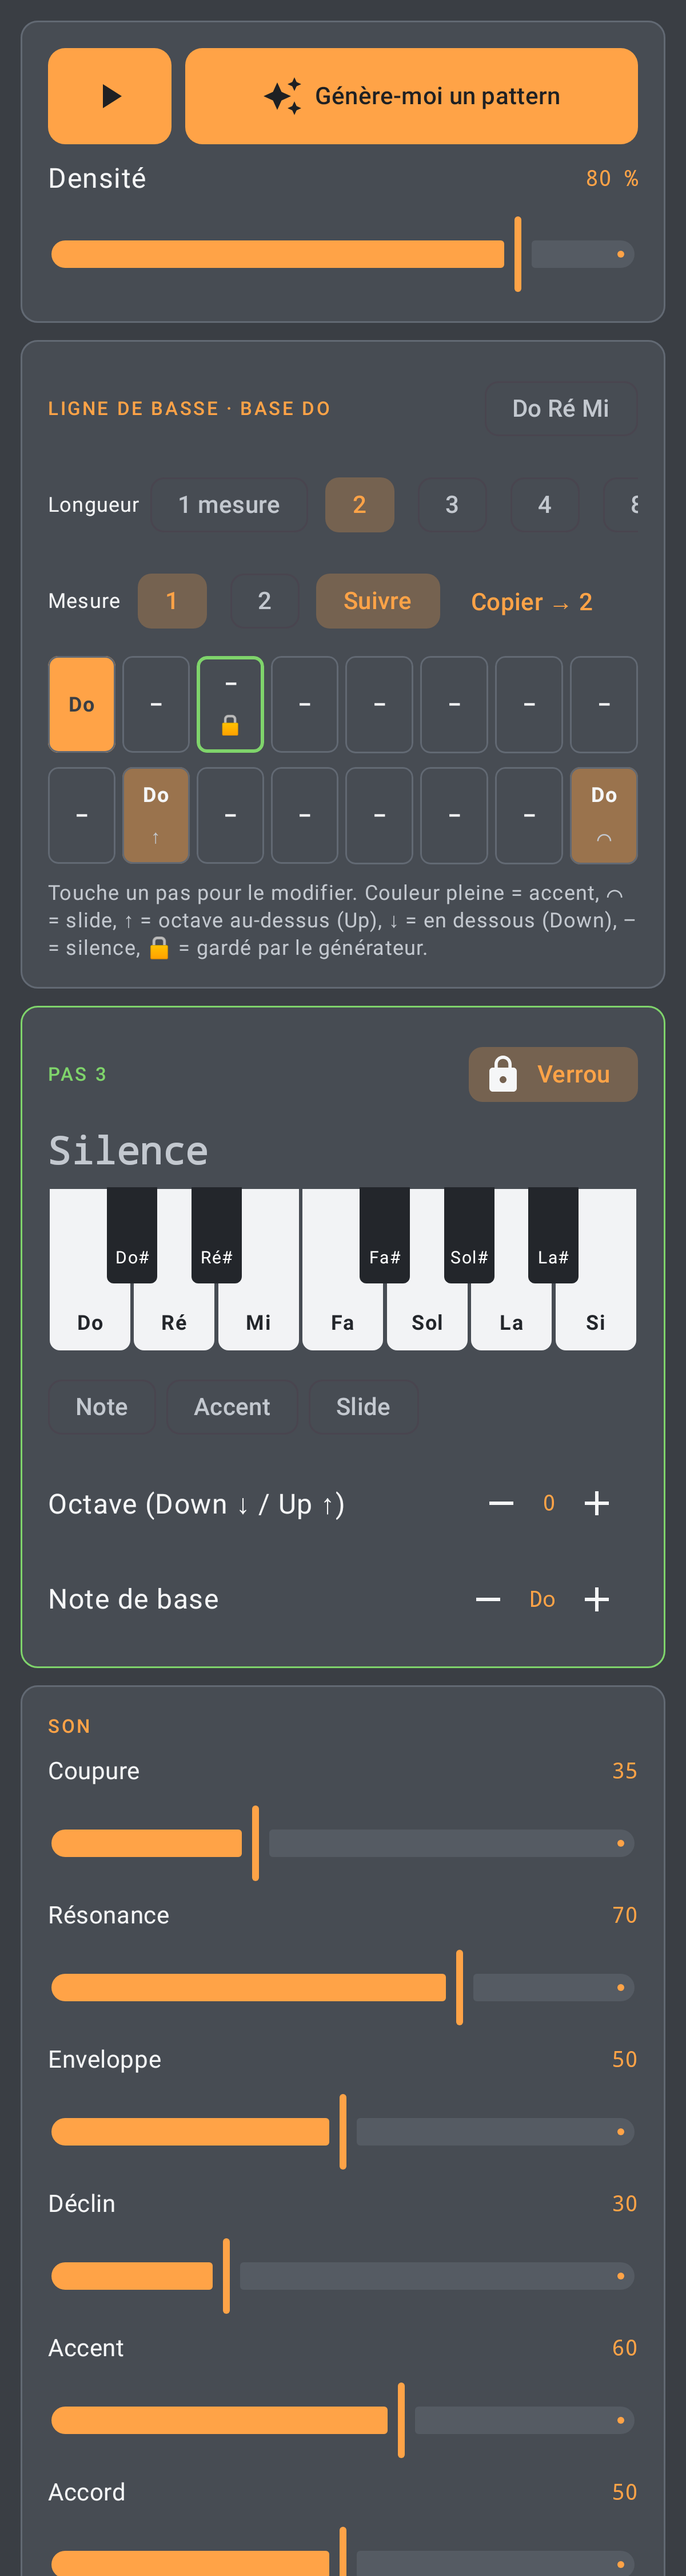
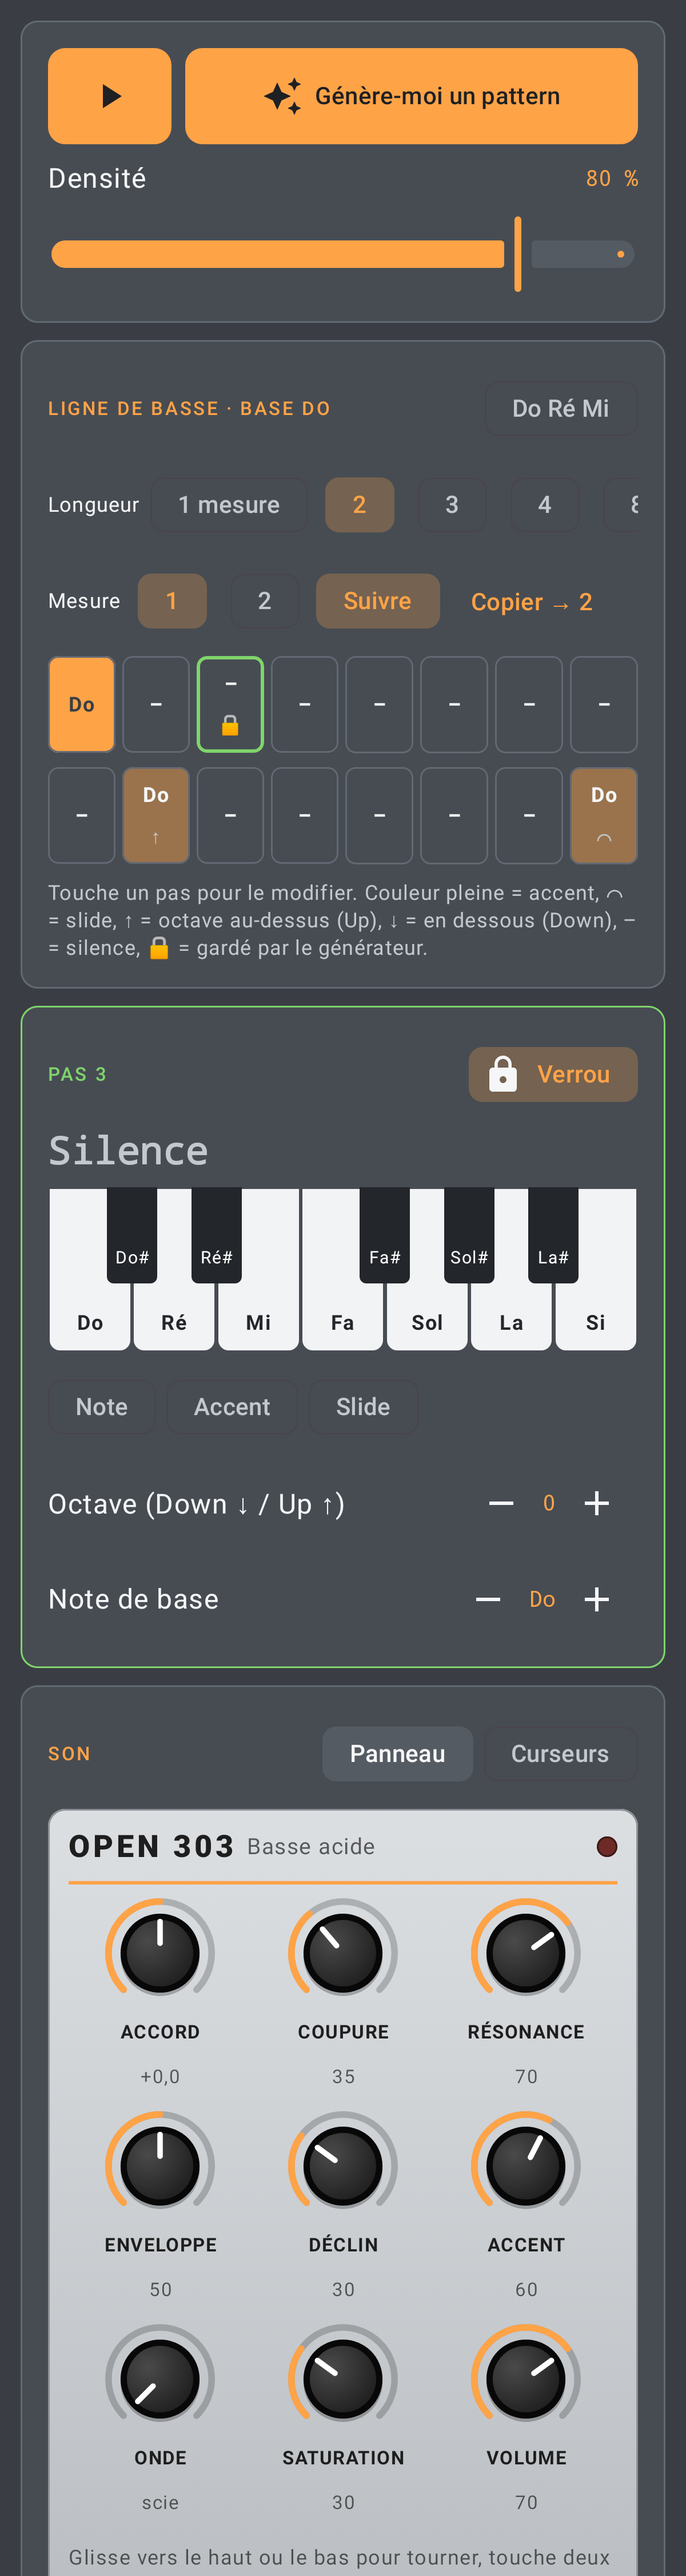
Acid: TB-303 style knob panel for the sound (sliders still available)
Claude-Session: https://claude.ai/code/session_01NqonxZBBysqqWBbnsC2VTP

Changed region(s): [[0.0617, 0.6533, 0.9558, 1.0]]

diff --git a/app/src/main/java/com/pocketstudio/app/acid/AcidScreen.kt b/app/src/main/java/com/pocketstudio/app/acid/AcidScreen.kt
@@ -54,7 +54,12 @@ import androidx.compose.ui.platform.testTag
 import androidx.compose.ui.text.font.FontWeight
 import androidx.compose.ui.unit.dp
 import androidx.compose.ui.unit.sp
+import androidx.compose.foundation.layout.size
+import androidx.compose.ui.graphics.Brush
 import com.pocketstudio.model.AcidPattern
+import com.pocketstudio.model.AcidSound
+import com.pocketstudio.ui.Knob
+import com.pocketstudio.ui.KnobColors
 import com.pocketstudio.model.AcidStep
 import com.pocketstudio.ui.MonoStyle
 import com.pocketstudio.ui.Neon
@@ -139,7 +144,7 @@ fun AcidScreen(
         val setEnglish: (Boolean) -> Unit = { english = it; Notation.setEnglish(context, it) }
         StepGrid(acid, playing, currentStep, selected, actions, english, setEnglish)
         StepEditor(acid, selected, actions, english)
-        SoundCard(acid, actions)
+        SoundCard(acid, playing, actions)
     }
 }
 
@@ -315,10 +320,26 @@ private fun StepEditor(acid: AcidPattern, index: Int, actions: AcidActions, engl
 }
 
 @Composable
-private fun SoundCard(acid: AcidPattern, actions: AcidActions) {
+private fun SoundCard(acid: AcidPattern, playing: Boolean, actions: AcidActions) {
     val values = acid.sound.values()
+    val context = LocalContext.current
+    var sliders by remember { mutableStateOf(SoundView.sliders(context)) }
     NeonCard {
-        SectionLabel("Son")
+        Row(verticalAlignment = Alignment.CenterVertically, horizontalArrangement = Arrangement.spacedBy(6.dp)) {
+            SectionLabel("Son", Modifier.weight(1f))
+            listOf(false to "Panneau", true to "Curseurs").forEach { (mode, label) ->
+                FilterChip(
+                    selected = sliders == mode,
+                    onClick = { sliders = mode; SoundView.setSliders(context, mode) },
+                    label = { Text(label) },
+                    modifier = Modifier.testTag(if (mode) "acid_view_sliders" else "acid_view_panel"),
+                )
+            }
+        }
+        if (!sliders) {
+            Panel303(values, playing, actions.setSound)
+            return@NeonCard
+        }
         SOUND_LABELS.forEachIndexed { i, label ->
             Row(Modifier.fillMaxWidth(), verticalAlignment = Alignment.CenterVertically) {
                 Text(label, Modifier.weight(1f), style = MaterialTheme.typography.bodyMedium)
@@ -331,6 +352,79 @@ private fun SoundCard(acid: AcidPattern, actions: AcidActions) {
             )
         }
     }
+}
+
+/** Remembers whether the 303's sound shows as the knob panel (default) or as sliders. */
+private object SoundView {
+    private const val KEY = "acid_sliders"
+    fun sliders(context: Context) = context.getSharedPreferences("ui", Context.MODE_PRIVATE).getBoolean(KEY, false)
+    fun setSliders(context: Context, on: Boolean) =
+        context.getSharedPreferences("ui", Context.MODE_PRIVATE).edit().putBoolean(KEY, on).apply()
+}
+
+// Knob layout of the panel, in rows (AcidSound value indices), as on the original's top row.
+private val PANEL_ROWS = listOf(listOf(5, 0, 1), listOf(2, 3, 4), listOf(6, 7, 8))
+private val PANEL_LABELS = listOf("COUPURE", "RÉSONANCE", "ENVELOPPE", "DÉCLIN", "ACCENT", "ACCORD", "ONDE", "SATURATION", "VOLUME")
+
+/** The 303's sound as a brushed-aluminium panel of black knobs, like the hardware. */
+@Composable
+internal fun Panel303(values: List<Float>, playing: Boolean, setSound: (Int, Float) -> Unit) {
+    val defaults = AcidSound().values()
+    val ink = Color(0xFF1E1E1E)
+    val knobColors = KnobColors(
+        cap = Color(0xFF222222), capEdge = Color(0xFF080808), pointer = Color.White,
+        track = Color(0x33000000), value = Neon.Cyan, label = ink,
+    )
+    Column(
+        Modifier.fillMaxWidth()
+            .clip(RoundedCornerShape(10.dp))
+            .background(Brush.verticalGradient(listOf(Color(0xFFDCDFE2), Color(0xFFB9BDC1))))
+            .border(1.dp, Color(0xFF8E9296), RoundedCornerShape(10.dp))
+            .padding(horizontal = 12.dp, vertical = 10.dp)
+            .testTag("acid_panel"),
+        verticalArrangement = Arrangement.spacedBy(8.dp),
+    ) {
+        Row(verticalAlignment = Alignment.CenterVertically) {
+            Text("OPEN 303", color = ink, fontWeight = FontWeight.Black, fontSize = 18.sp, letterSpacing = 2.sp)
+            Text("  Basse acide", color = ink.copy(alpha = 0.7f), fontSize = 13.sp, modifier = Modifier.weight(1f))
+            // The run lamp: lit while the pattern plays.
+            Box(
+                Modifier.size(12.dp).clip(RoundedCornerShape(6.dp))
+                    .background(if (playing) Color(0xFFFF3B2F) else Color(0xFF6E2A26))
+                    .border(1.dp, Color(0xFF3A1A18), RoundedCornerShape(6.dp)),
+            )
+        }
+        Box(Modifier.fillMaxWidth().height(2.dp).background(Neon.Cyan))
+        PANEL_ROWS.forEach { row ->
+            Row(Modifier.fillMaxWidth(), horizontalArrangement = Arrangement.SpaceEvenly) {
+                row.forEach { i ->
+                    Knob(
+                        value = values[i],
+                        onValueChange = { setSound(i, it) },
+                        label = PANEL_LABELS[i],
+                        default = defaults[i],
+                        colors = knobColors,
+                        valueText = knobText(i, values[i]),
+                        modifier = Modifier.weight(1f).testTag("acid_knob_$i"),
+                    )
+                }
+            }
+        }
+        Text(
+            "Glisse vers le haut ou le bas pour tourner, touche deux fois pour revenir au réglage de départ.",
+            color = ink.copy(alpha = 0.7f), fontSize = 12.sp,
+        )
+    }
+}
+
+private fun knobText(index: Int, v: Float): String = when (index) {
+    5 -> "%+.1f".format((v - 0.5f) * 24f).replace('.', ',')  // tuning: ±12 semitones
+    6 -> when {
+        v < 0.15f -> "scie"
+        v > 0.85f -> "carré"
+        else -> "mélange"
+    }
+    else -> "${(v * 100).roundToInt()}"
 }
 
 private fun octaveMark(octave: Int) = when {

diff --git a/ui-components/src/main/java/com/pocketstudio/ui/Knob.kt b/ui-components/src/main/java/com/pocketstudio/ui/Knob.kt
@@ -1,0 +1,121 @@
+package com.pocketstudio.ui
+
+import androidx.compose.foundation.Canvas
+import androidx.compose.foundation.gestures.detectTapGestures
+import androidx.compose.foundation.gestures.detectVerticalDragGestures
+import androidx.compose.foundation.layout.Arrangement
+import androidx.compose.foundation.layout.Column
+import androidx.compose.foundation.layout.size
+import androidx.compose.material3.Text
+import androidx.compose.runtime.Composable
+import androidx.compose.runtime.getValue
+import androidx.compose.runtime.rememberUpdatedState
+import androidx.compose.ui.Alignment
+import androidx.compose.ui.Modifier
+import androidx.compose.ui.geometry.Offset
+import androidx.compose.ui.geometry.Size
+import androidx.compose.ui.graphics.Brush
+import androidx.compose.ui.graphics.Color
+import androidx.compose.ui.graphics.StrokeCap
+import androidx.compose.ui.graphics.drawscope.Stroke
+import androidx.compose.ui.hapticfeedback.HapticFeedbackType
+import androidx.compose.ui.input.pointer.pointerInput
+import androidx.compose.ui.platform.LocalHapticFeedback
+import androidx.compose.ui.semantics.ProgressBarRangeInfo
+import androidx.compose.ui.semantics.contentDescription
+import androidx.compose.ui.semantics.progressBarRangeInfo
+import androidx.compose.ui.semantics.semantics
+import androidx.compose.ui.semantics.setProgress
+import androidx.compose.ui.text.font.FontWeight
+import androidx.compose.ui.text.style.TextAlign
+import androidx.compose.ui.unit.Dp
+import androidx.compose.ui.unit.dp
+import androidx.compose.ui.unit.sp
+import kotlin.math.cos
+import kotlin.math.sin
+
+/** Colours of a [Knob]: hardware-style panels pass their own. */
+class KnobColors(
+    val cap: Color,
+    val capEdge: Color,
+    val pointer: Color,
+    val track: Color,
+    val value: Color,
+    val label: Color,
+)
+
+/**
+ * A rotary knob (potard), 0..1 over a 270° sweep. Drag up or down to turn it (the whole sweep
+ * is about 200 dp of finger travel), double-tap to put it back to [default].
+ */
+@Composable
+fun Knob(
+    value: Float,
+    onValueChange: (Float) -> Unit,
+    label: String,
+    modifier: Modifier = Modifier,
+    default: Float = 0.5f,
+    size: Dp = 64.dp,
+    colors: KnobColors,
+    valueText: String? = null,
+) {
+    val current by rememberUpdatedState(value)
+    val change by rememberUpdatedState(onValueChange)
+    val haptics = LocalHapticFeedback.current
+    Column(modifier, horizontalAlignment = Alignment.CenterHorizontally, verticalArrangement = Arrangement.spacedBy(2.dp)) {
+        Canvas(
+            Modifier.size(size)
+                .semantics {
+                    contentDescription = label
+                    progressBarRangeInfo = ProgressBarRangeInfo(value, 0f..1f)
+                    setProgress { v -> change(v.coerceIn(0f, 1f)); true }
+                }
+                .pointerInput(Unit) {
+                    detectTapGestures(onDoubleTap = {
+                        haptics.performHapticFeedback(HapticFeedbackType.LongPress)
+                        change(default)
+                    })
+                }
+                .pointerInput(Unit) {
+                    val travel = 200.dp.toPx()
+                    var v = 0f
+                    detectVerticalDragGestures(onDragStart = { v = current }) { c, dy ->
+                        c.consume()
+                        v = (v - dy / travel).coerceIn(0f, 1f)
+                        change(v)
+                    }
+                },
+        ) {
+            val r = this.size.minDimension / 2f
+            val c = Offset(this.size.width / 2f, this.size.height / 2f)
+            val stroke = r * 0.12f
+            val arc = Size(2 * (r - stroke / 2), 2 * (r - stroke / 2))
+            val arcTopLeft = Offset(c.x - arc.width / 2, c.y - arc.height / 2)
+            // Scale: grey track, value in colour, from 7:30 to 4:30 o'clock.
+            drawArc(colors.track, 135f, 270f, false, arcTopLeft, arc, style = Stroke(stroke, cap = StrokeCap.Round))
+            if (value > 0.005f) {
+                drawArc(colors.value, 135f, 270f * value, false, arcTopLeft, arc, style = Stroke(stroke, cap = StrokeCap.Round))
+            }
+            // The cap: a ribbed rim and a slightly lit top, like a moulded knob.
+            val capR = r * 0.72f
+            drawCircle(Color.Black.copy(alpha = 0.25f), capR, c + Offset(0f, r * 0.06f))
+            drawCircle(colors.capEdge, capR, c)
+            drawCircle(
+                Brush.radialGradient(listOf(colors.cap.copy(alpha = 1f).compositeOver(Color.White, 0.18f), colors.cap), c - Offset(capR * 0.3f, capR * 0.3f), capR * 1.2f),
+                capR * 0.84f, c,
+            )
+            val angle = Math.toRadians(135.0 + 270.0 * value)
+            val dir = Offset(cos(angle).toFloat(), sin(angle).toFloat())
+            drawLine(colors.pointer, c + dir * (capR * 0.25f), c + dir * (capR * 0.8f), strokeWidth = r * 0.1f, cap = StrokeCap.Round)
+        }
+        Text(label, color = colors.label, fontSize = 11.sp, fontWeight = FontWeight.Bold, textAlign = TextAlign.Center, maxLines = 1)
+        if (valueText != null) Text(valueText, color = colors.label.copy(alpha = 0.7f), fontSize = 11.sp, textAlign = TextAlign.Center, maxLines = 1)
+    }
+}
+
+private fun Color.compositeOver(other: Color, amount: Float) = Color(
+    red = red + (other.red - red) * amount,
+    green = green + (other.green - green) * amount,
+    blue = blue + (other.blue - blue) * amount,
+    alpha = alpha,
+)

diff --git a/app/src/test/java/com/pocketstudio/app/ScreenshotTest.kt b/app/src/test/java/com/pocketstudio/app/ScreenshotTest.kt
@@ -367,6 +367,13 @@ class ScreenshotTest {
     }
 
     @Test
+    fun acidPanel() = shoot("acid_panel") {
+        androidx.compose.foundation.layout.Column(androidx.compose.ui.Modifier.padding(androidx.compose.ui.unit.Dp(12f))) {
+            com.pocketstudio.app.acid.Panel303(com.pocketstudio.model.AcidSound(cutoff = 0.62f, waveform = 1f).values(), playing = true) { _, _ -> }
+        }
+    }
+
+    @Test
     fun session() = shoot("session") {
         val drums = com.pocketstudio.model.DrumPattern().toggle(0, 0).toggle(2, 4)
         val a = com.pocketstudio.model.Scene("A", drums)
